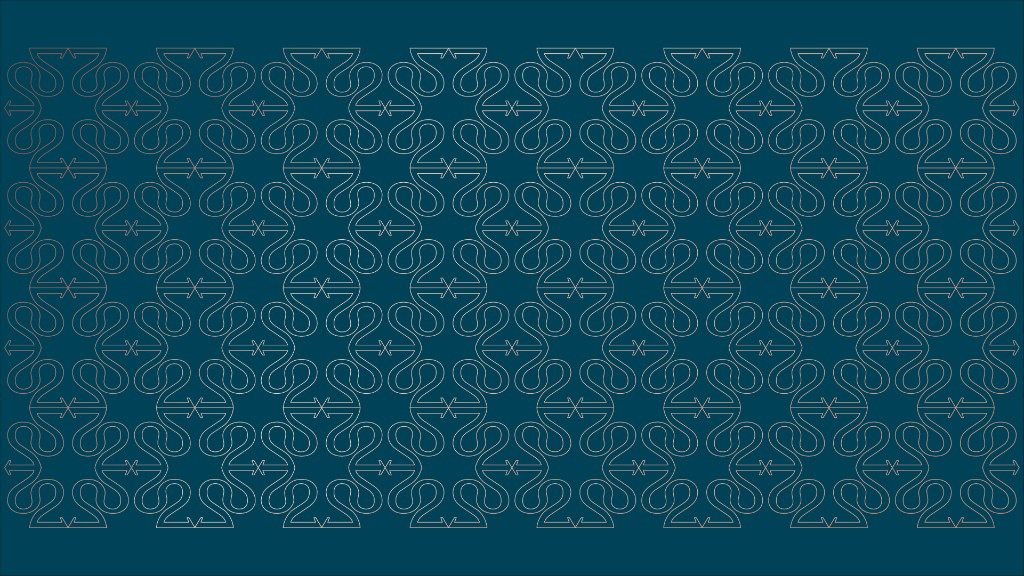
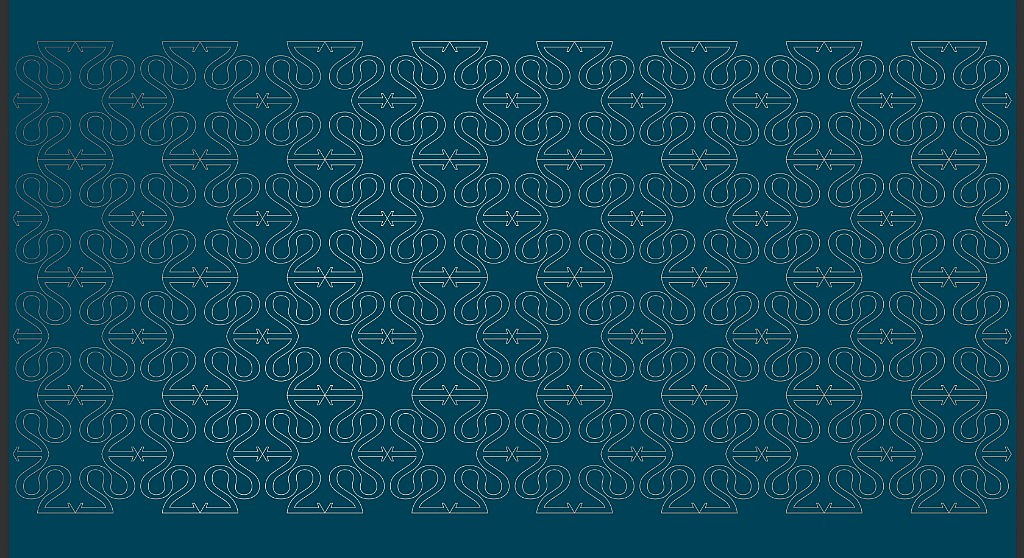
perf(web): pattern WebP tileable pour « Le groupe »
Ajoute une variante WebP avec fallback PNG et répétition du motif à 1024px.

diff --git a/web/app/globals.css b/web/app/globals.css
@@ -501,7 +501,13 @@ h4 {
 #home-group {
   background-color: var(--color-petrol);
   background-image: url("/home/group-pattern-bg.png");
-  background-repeat: no-repeat;
-  background-size: cover;
-  background-position: center;
+  background-repeat: repeat;
+  background-size: 1024px auto;
+  background-position: left top;
+}
+
+@supports (background-image: url("/home/group-pattern-bg.webp")) {
+  #home-group {
+    background-image: url("/home/group-pattern-bg.webp");
+  }
 }
